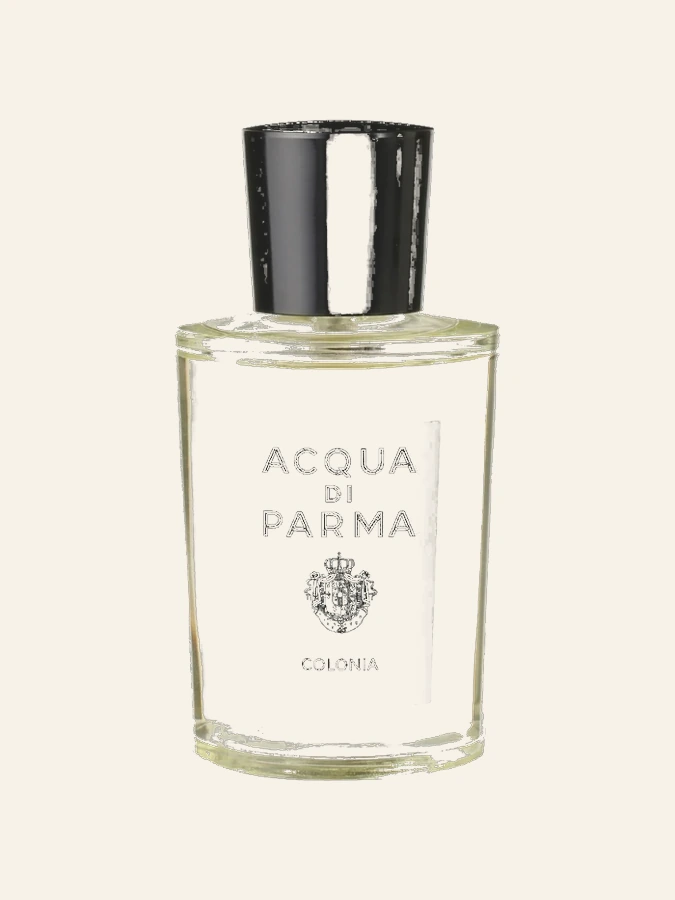
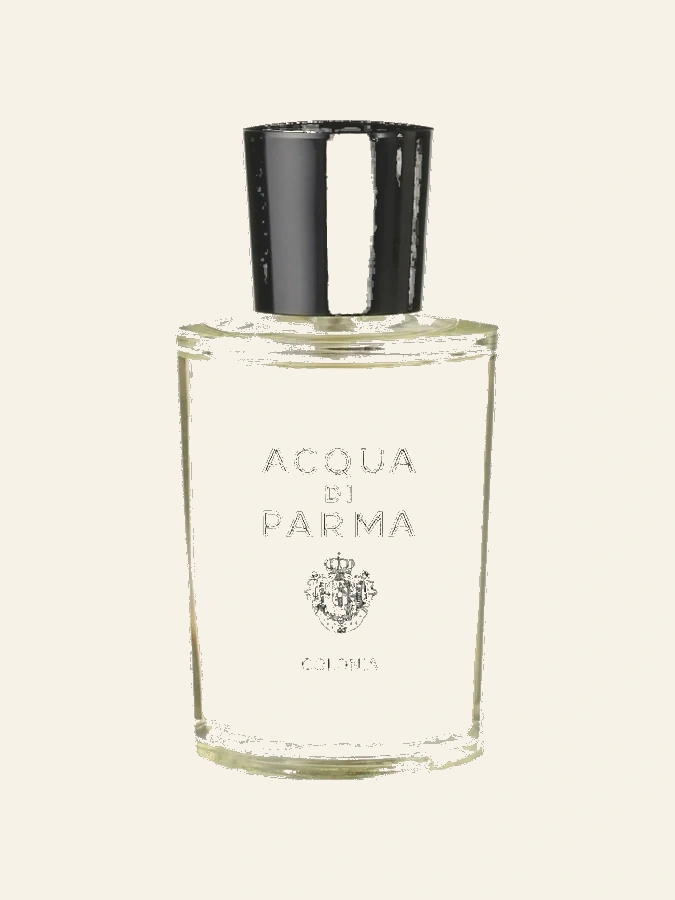
JOS-21: Fragrance & finish cutouts match the names on the bottles (#12)
* fix: match fragrance tiles to on-pack names and crisp cuts

JOS-21. Product cuts peel an opaque white glass rim without eating
labels or chewing matte pigment. Demo bottles are recut so each
Fragrance & finish title is the name printed on the pack.

* fix: use real Santal 33, Claymation, and readable Tonka packs

JOS-21. Replace the three bottles that still failed QA: the pack
reads Santal 33, the jar title is Claymation, and Reminiscence is
large enough to read on the Tonka bottle. Those cuts are tightened
to the Colonia and Grey Flannel edge.

* fix: remove stamped text and restore clean fragrance photos

JOS-30. The Tonka, Claymation, and Santal 33 tiles were showing
drawn-on lettering. Those three files are recut from the bottle
photos themselves, with no text composited on top.

* chore: probe push_files auth on jos-21 branch

* fix: align cutout.test.ts with JOS-13 main

* fix: restore cutout.test.ts from JOS-13 main

* fix: begin restoring cutout.test.ts from JOS-13

* fix: restore cutout.test.ts from JOS-13 main (resolve merge conflict)

* fix: restore cutout.ts from JOS-13 main (resolve merge conflict)

* fix: restore cutout.ts from JOS-13 main

* fix: restore cutout.ts from JOS-13 main

* test base64 encoding support

* fix: restore cutout.ts from JOS-13 main (1/3 partial)

* temp: probe remote re-export (will revert)

* chore: remove encoding probe

* chore: remove merge probe
[…]

diff --git a/src/lib/seed.ts b/src/lib/seed.ts
@@ -707,10 +707,10 @@ export function createSampleCloset(): {
     },
     {
       id: "e_bergamot",
-      name: "Bergamot cologne",
+      name: "Colonia",
       brand: "Acqua di Parma",
       kind: "fragrance",
-      notes: "Bright, short-lived. Heat and linen.",
+      notes: "Bright bergamot. Heat and linen.",
       climate: ["hot", "warm"],
       formality: ["casual", "smart-casual"],
       tags: ["Weekend"],
@@ -719,8 +719,8 @@ export function createSampleCloset(): {
     },
     {
       id: "e_vetiver",
-      name: "Vetiver",
-      brand: "Grey Flannel",
+      name: "Grey Flannel",
+      brand: "Geoffrey Beene",
       kind: "fragrance",
       notes: "Dry woods. Office and autumn.",
       climate: ["mild", "cool"],
@@ -731,8 +731,8 @@ export function createSampleCloset(): {
     },
     {
       id: "e_tonka",
-      name: "Tonka and smoke",
-      brand: "Tonka Ambre",
+      name: "Tonka",
+      brand: "Reminiscence",
       kind: "fragrance",
       notes: "Evening weight. Coat weather.",
       climate: ["cool", "cold"],
@@ -743,7 +743,7 @@ export function createSampleCloset(): {
     },
     {
       id: "e_clay",
-      name: "Matte hair clay",
+      name: "Claymation",
       brand: "Hanz de Fuko",
       kind: "grooming",
       notes: "Low shine, strong hold.",
@@ -754,10 +754,11 @@ export function createSampleCloset(): {
     },
     {
       id: "e_balm",
-      name: "Beard oil",
+      name: "Santal 33",
       brand: "Le Labo",
-      kind: "grooming",
-      notes: "Sandalwood. Keep it neat, not glossy.",
+      kind: "fragrance",
+      notes: "Sandalwood. Cool evenings.",
+      family: "woody",
       climate: ["mild", "cool", "cold"],
       formality: ["smart-casual", "business", "formal"],
       tags: [],

diff --git a/src/lib/media.ts b/src/lib/media.ts
@@ -47,7 +47,7 @@ export function usePieceSrc(item: {
   return src;
 }
 
-const v = "v55";
+const v = "v58";
 
 export const SAMPLE_IMAGES: Record<string, string> = {
   g_navy_coat: `/sample/cut/navy-coat.webp?${v}`,
@@ -102,8 +102,8 @@ export const SAMPLE_IMAGES: Record<string, string> = {
   g_denim_jacket: `/sample/cut/denim-jacket.webp?${v}`,
   g_rain_shell: `/sample/cut/rain-shell.webp?${v}`,
   e_bergamot: `/sample/cut/colonia.webp?${v}`,
-  e_vetiver: `/sample/cut/vetiver.webp?${v}`,
-  e_tonka: `/sample/cut/tonka-ambre.webp?${v}`,
+  e_vetiver: `/sample/cut/grey-flannel.webp?${v}`,
+  e_tonka: `/sample/cut/tonka.webp?${v}`,
   e_cleanser: `/sample/cut/cerave-cleanser.webp?${v}`,
   e_vitc: `/sample/cut/skinceuticals-ce.webp?${v}`,
   e_moist: `/sample/cut/lrp-moist.webp?${v}`,
@@ -111,5 +111,5 @@ export const SAMPLE_IMAGES: Record<string, string> = {
   e_retinol: `/sample/cut/gg-retinol.webp?${v}`,
   e_night: `/sample/cut/weleda-night.webp?${v}`,
   e_clay: `/sample/cut/hanz-clay.webp?${v}`,
-  e_balm: `/sample/cut/lelabo-beard.webp?${v}`,
+  e_balm: `/sample/cut/santal-33.webp?${v}`,
 };

diff --git a/src/lib/store.ts b/src/lib/store.ts
@@ -126,10 +126,23 @@ function normalizeGarment(g: Garment): Garment {
   });
 }
 
+const FINISH_IDS = new Set([
+  "e_bergamot",
+  "e_vetiver",
+  "e_tonka",
+  "e_clay",
+  "e_balm",
+]);
+
 function normalizeExtra(e: Extra): Extra {
   const sample = createSampleCloset().extras.find((x) => x.id === e.id);
   const catalog = sample && SAMPLE_IMAGES[e.id]
     ? { name: sample.name, brand: sample.brand }
+    : null;
+  // Fragrance & finish names live on the bottle. Refresh the demo copy
+  // so an older saved closet picks up the on-pack title.
+  const finish = sample && FINISH_IDS.has(e.id)
+    ? { notes: sample.notes, kind: sample.kind, family: sample.family }
     : null;
   return bindPhotoFields({
     ...e,
@@ -138,6 +151,7 @@ function normalizeExtra(e: Extra): Extra {
     slot: e.slot ?? sample?.slot,
     step: e.step ?? sample?.step,
     kind: e.kind ?? sample?.kind ?? "skincare",
+    ...finish,
   });
 }
 

diff --git a/scripts/stage-groom.py b/scripts/stage-groom.py
@@ -128,7 +128,7 @@ def main() -> None:
     retinol = knock_white(load(ROOT / "artifacts/searched_images/OhgPB.jpg"))
     bergamot = knock_white(load(ROOT / "artifacts/searched_images/P7O1a.jpg"))
     vetiver = knock_white(load(ROOT / "artifacts/searched_images/f018u.jpg"))
-    balm = knock_white(load(ROOT / "public/sample/cut/lelabo-beard.webp"))
+    balm = knock_white(load(ROOT / "public/sample/cut/santal-33.webp"))
     night = load(ROOT / "artifacts/imagine_images/67360e07-11cd-48ef-a706-645ac97a5a0c.jpg")
     tonka = tonka_catalog()
     clay = clay_closed()
